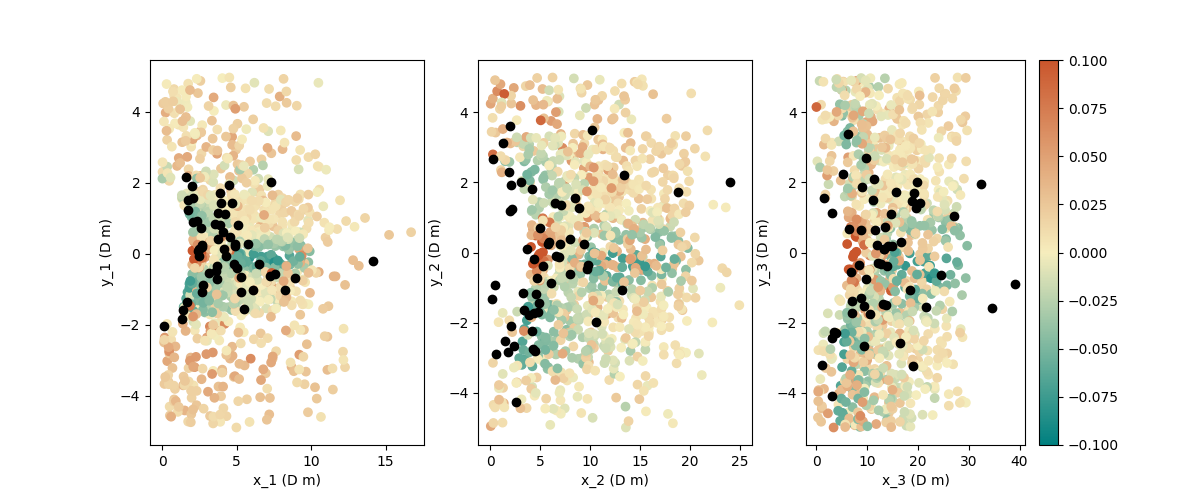
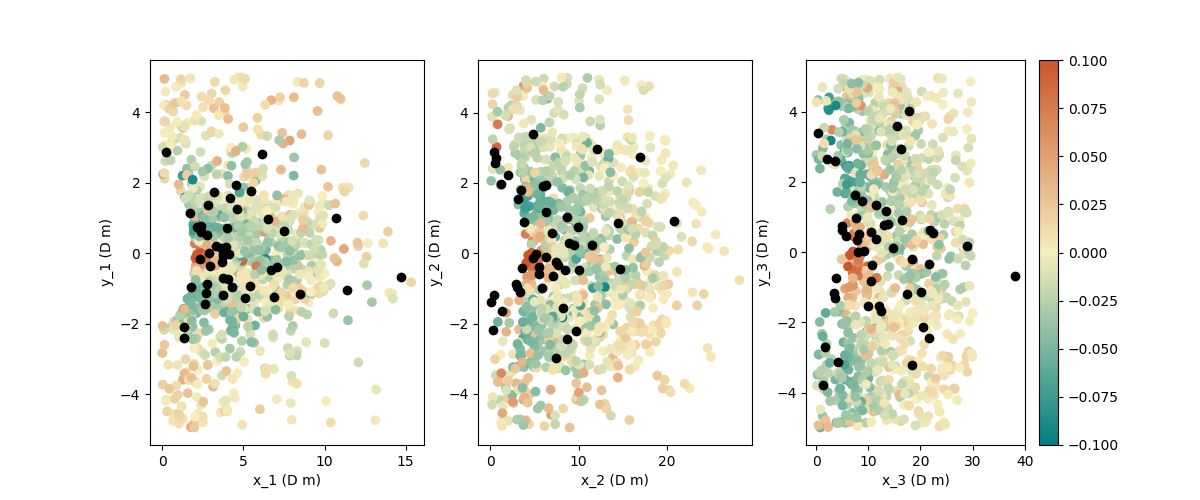
Compare old and new training

diff --git a/analysis/training_curve_6D.py b/analysis/training_curve_6D.py
@@ -19,7 +19,7 @@ noise = 0.01
 # create array of sampled regular array layouts
 #cand_points = regular_array_monte_carlo(10000)
 # create testing points
-X_test, y_test = create_testing_points(noise)
+X_test, y_test = create_testing_points_regular(noise)
 
 n = 0
 n_target = 0
@@ -29,7 +29,7 @@ while n_train < 200:
 
     # create training points
     X_train, y_train, n_train = \
-        create_training_points_irregular_lhs(n_target, noise)
+        create_training_points_irregular(n_target, noise)
 
     # fit GP regression and calculate rmse
     kernel = 1.0 ** 2 * RBF(length_scale=[1., 1., 1., 1., 1., 1.]) \
@@ -54,4 +54,4 @@ plt.title('Training curve RBF - 6D 1% noise - irregular array training - max cha
 plt.ylabel('RMSE')
 plt.xlabel('Training points')
 plt.savefig('analysis/GP_machine_learning_plots/\
-gp_training_curve_RBF_irregular_training_lhs_maxchangehalved.png')
+gp_training_curve_RBF_irregular_training_maxchangehalved_regular_testing.png')

diff --git a/GP_machine_learning/GP_machine_learning_functions.py b/GP_machine_learning/GP_machine_learning_functions.py
@@ -2,7 +2,7 @@
 Process machine learning
 """
 from pyDOE import lhs
-from scipy.stats.distributions import norm, expon
+from scipy.stats.distributions import norm, expon, uniform
 import diversipy.hycusampling as dp
 import diversipy.subset as sb
 import numpy as np
